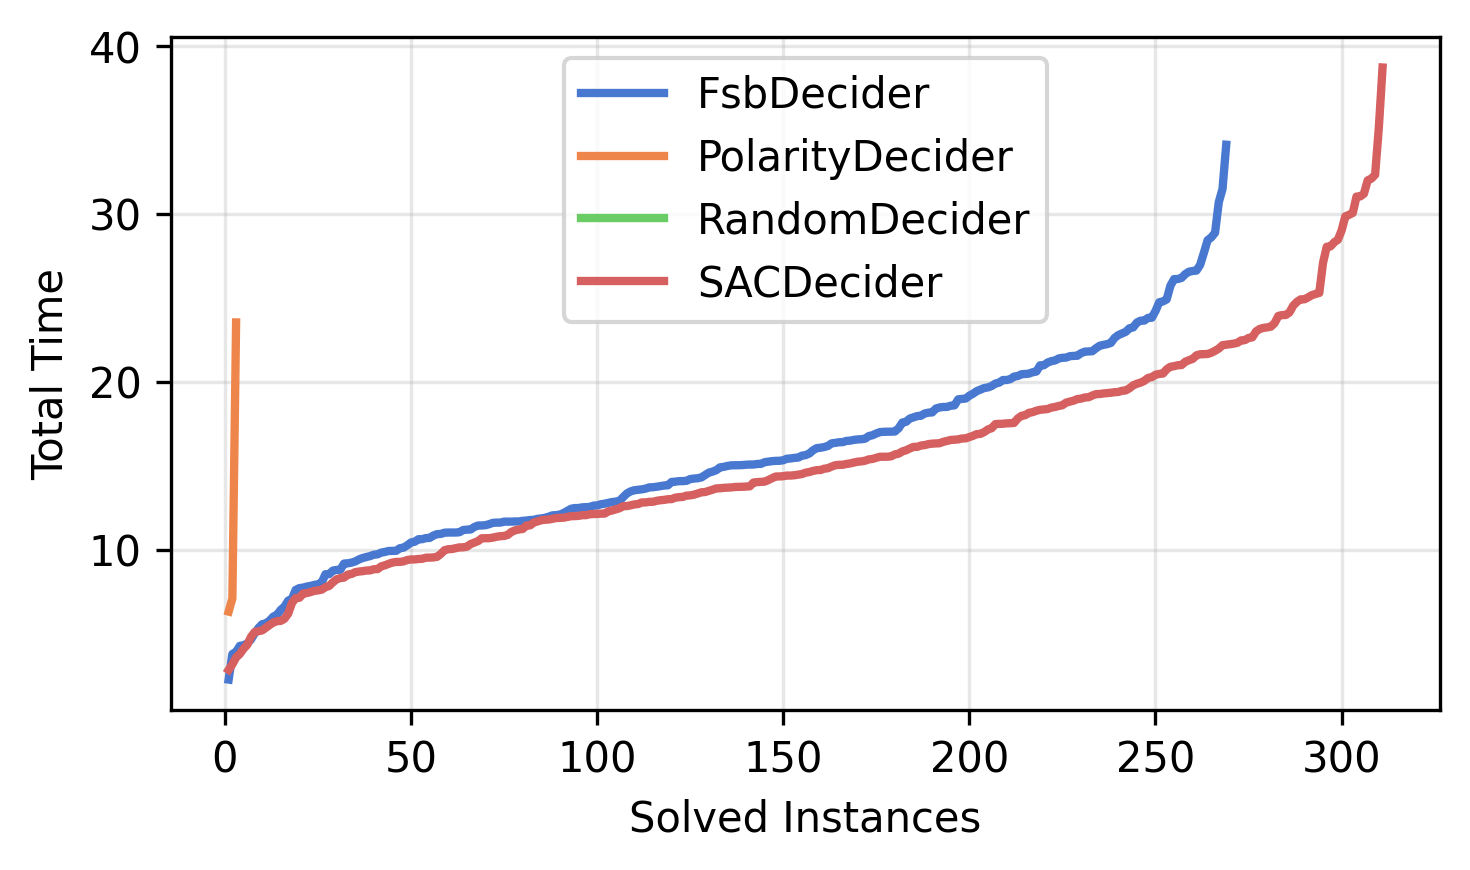
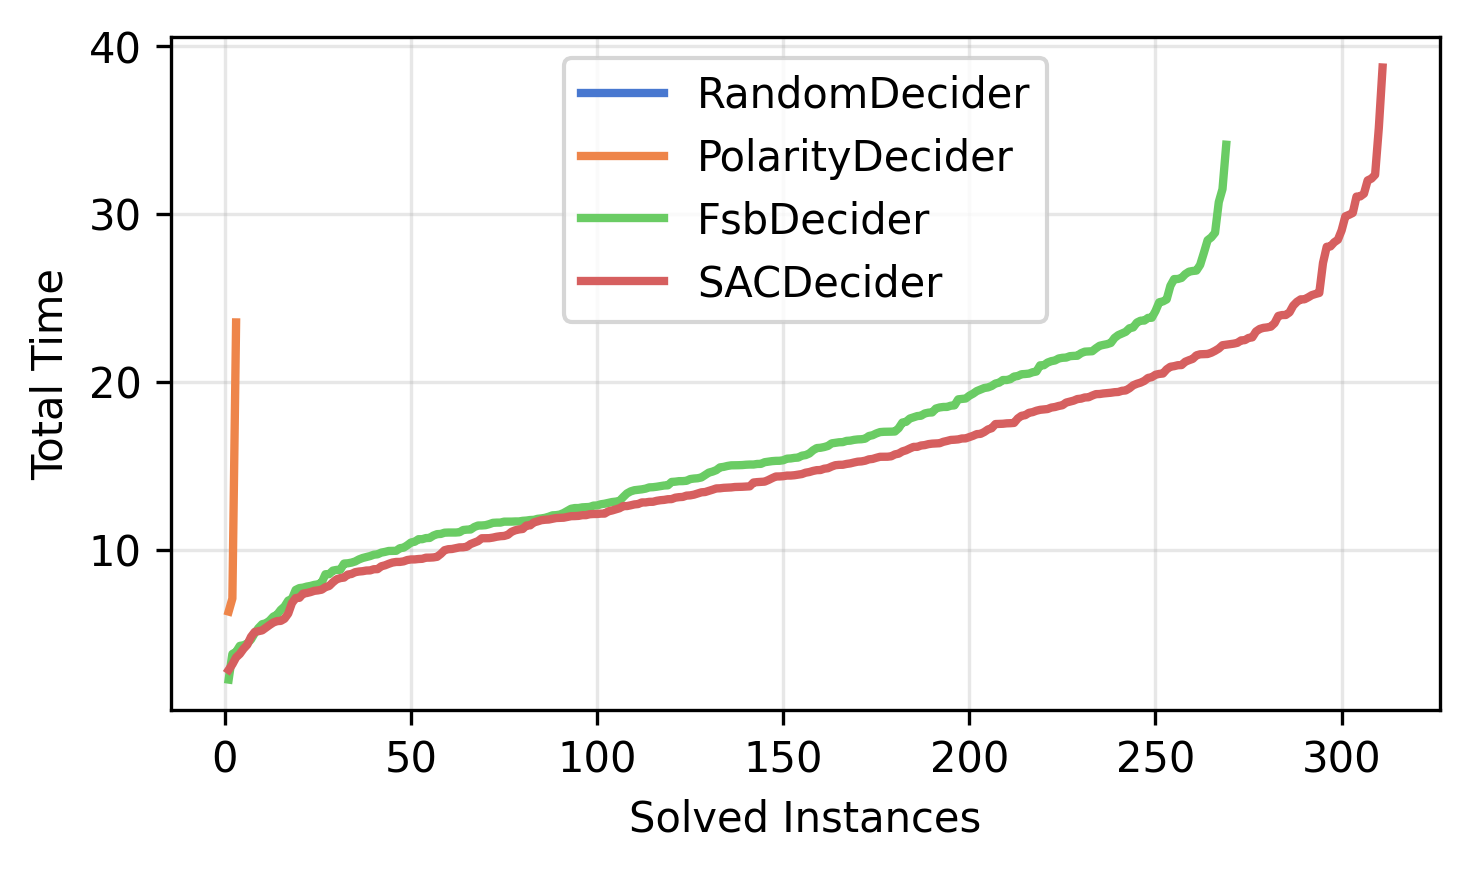
x

diff --git a/plot/plot_dnnv.py b/plot/plot_dnnv.py
@@ -34,6 +34,15 @@ def extract_data(args, metric='total_time', filter_invalid=True):
     base_label = f'{args.dataset}'
     solver_classes = [RandomDecider, PolarityDecider, FsbDecider, SACDecider]
     # solver_classes = [RandomDecider, FsbDecider, SACDecider]
+    
+    # Load test dataset to get network names
+    test_dataset_path = os.path.join(args.dataset_dir, args.dataset, f'instances_{args.mode}.csv')
+    test_df = pd.read_csv(test_dataset_path, header=None)
+    test_df.columns = ['onnx', 'vnnlib']
+    
+    # Create a mapping from episode index to network name
+    network_names = test_df['onnx'].tolist()
+    
     dfs = []
     for solver_class in solver_classes:
         if solver_class in [RandomDecider, PolarityDecider]:
@@ -43,6 +52,10 @@ def extract_data(args, metric='total_time', filter_invalid=True):
             
         df = pd.read_csv(path)
         df['solver'] = solver_class.__name__
+        
+        # Add network name for the first len(df) rows from test dataset
+        df['network'] = df['episode'].apply(lambda ep: network_names[ep].split('_')[-1].split('.')[0]) #  if ep < len(network_names) else 'unknown'
+        
         dfs.append(df)
         # solved = len(df[df['done'] == True])
         # print(f'{solver_class.__name__}: {solved}')
@@ -56,8 +69,16 @@ def extract_data(args, metric='total_time', filter_invalid=True):
 
     df_filtered['value'] = df_filtered['value'] * - 1
     
+    # Create episode to network mapping before pivot
+    episode_to_network = df_filtered[['episode', 'network']].drop_duplicates().set_index('episode')['network']
+    
     df = df_filtered.pivot(index='episode', columns='solver', values=metric)
+    
+    # Add network column back after pivot
+    df['network'] = df.index.map(episode_to_network)
+    
     print(df.head(), len(df))
+    # exit()
     for solver in solver_classes:
         solved = len(df[df[solver.__name__] > 0])
         print(f'{solver.__name__}: {solved}')
@@ -72,8 +93,10 @@ def plot_cactus(args, metric='total_time'):
     
     # Set color palette
     colors = sns.color_palette("muted", n_colors=len(df.columns))
+    solver_classes = [RandomDecider, PolarityDecider, FsbDecider, SACDecider]
     
-    for idx, solver in enumerate(df.columns):
+    for idx, s in enumerate(solver_classes):
+        solver = s.__name__
         values = df[solver][df[solver] > 0].sort_values() # excluding unsolved instances (0)
         x = list(range(1, len(values) + 1))
         
@@ -163,6 +186,8 @@ if __name__ == '__main__':
     args = get_args()
     plot_cactus(args, metric='total_time')
     plot_cactus(args, metric='value')
+    plot_cactus(args, metric='active_neuron')
+    
     plot_bar_improvement(args, metric='iteration')
     # plot_bar_improvement(args, metric='value')
     plot_box(args, metric='value', showfliers=False)
